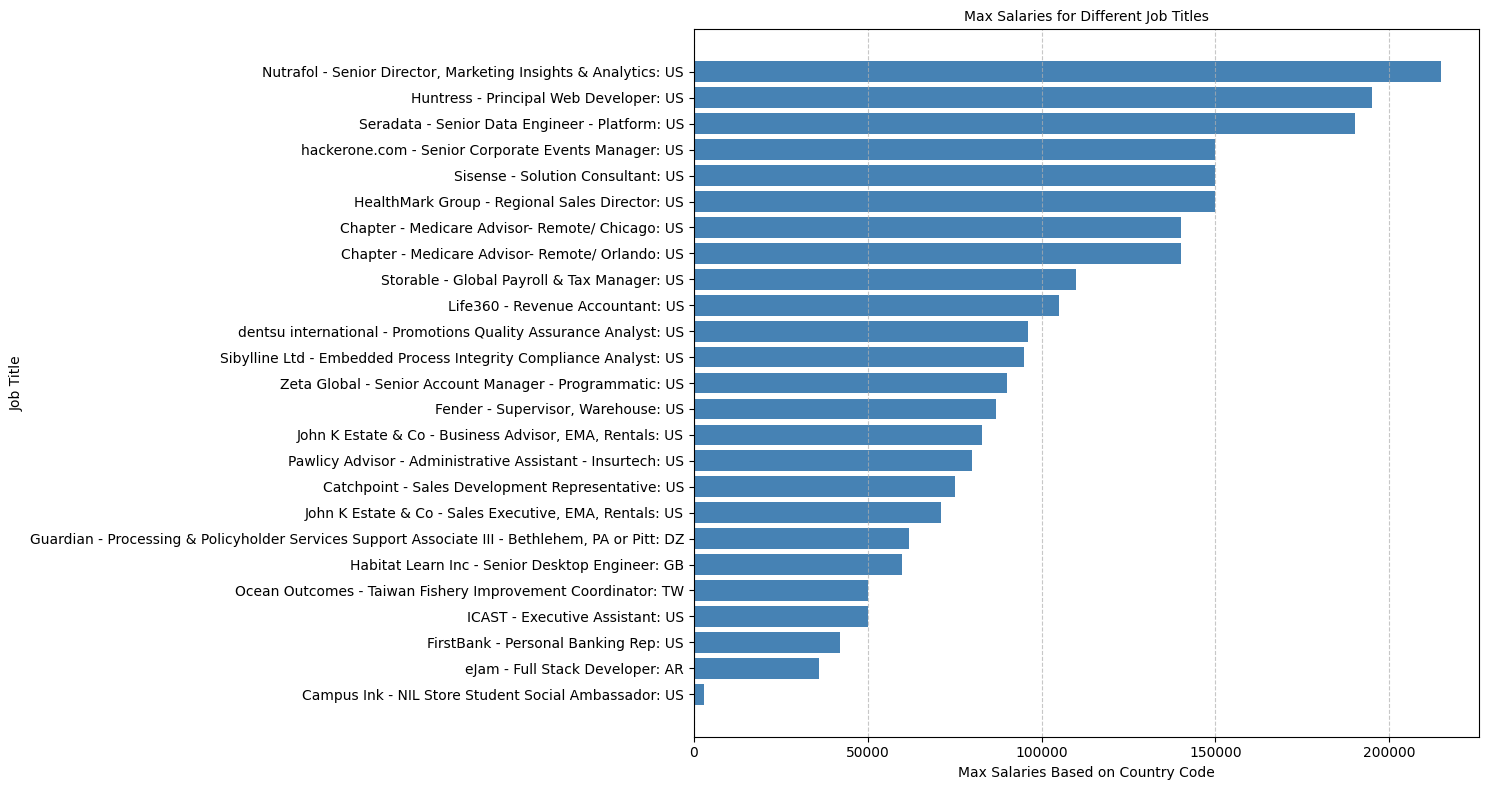
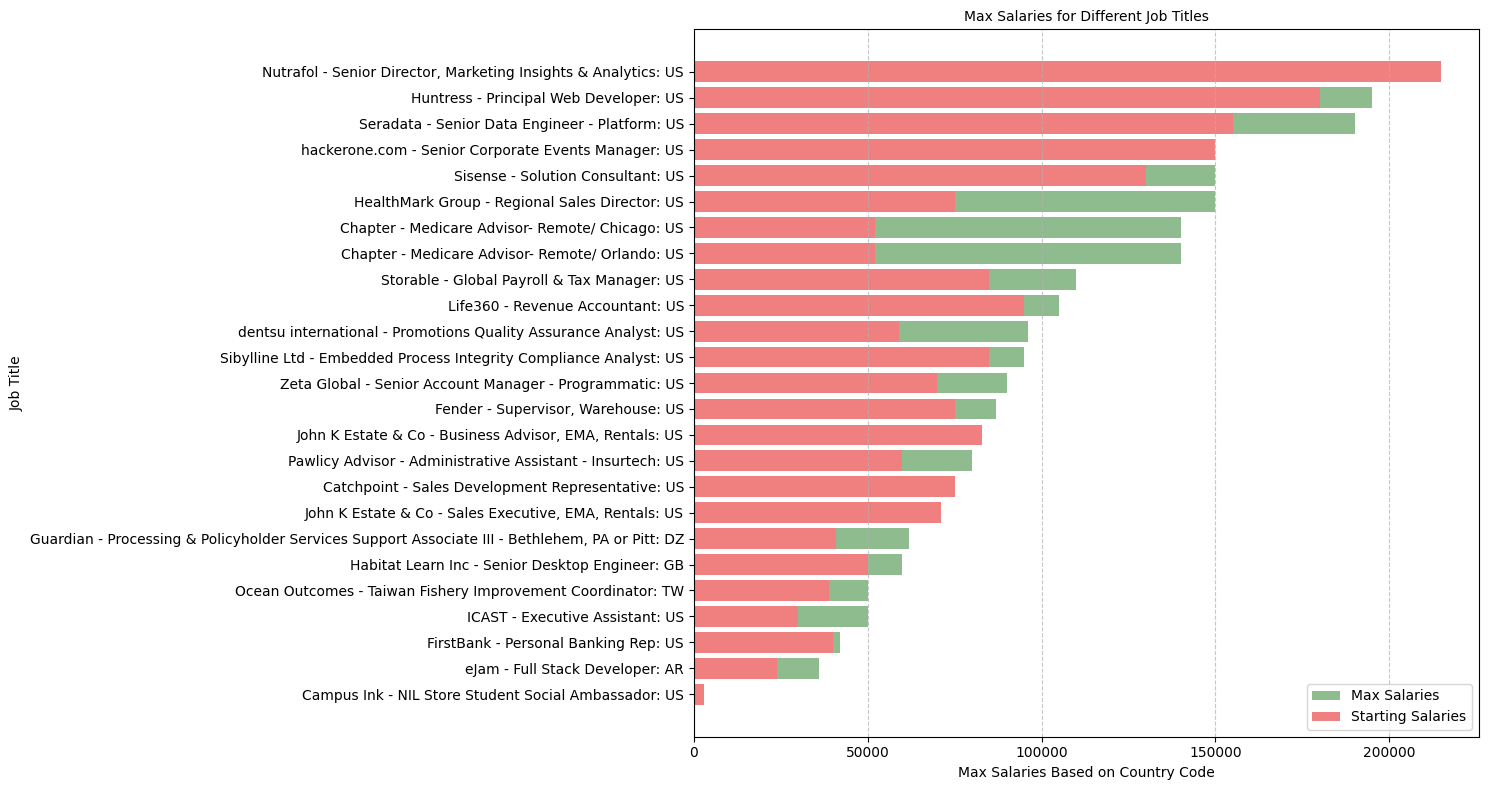
Add final edits to matplotlib and add flask

Changed region(s): [[0.4637, 0.0608, 0.9892, 0.881], [0.8656, 0.8506, 0.9892, 0.9114]]

diff --git a/data_analysis/matplotlib_visuals/plots.py b/data_analysis/matplotlib_visuals/plots.py
@@ -10,6 +10,15 @@ def line_plot(df):
     plt.plot(
         df["company_names"] + " - " + df["job_titles"] + ": " + df["locations"],
         df["max_salaries"],
+        label="Max Salaries",
+        color=random.choice(colors),
+        marker="o",
+        linestyle="-",
+    )
+    plt.plot(
+        df["company_names"] + " - " + df["job_titles"] + ": " + df["locations"],
+        df["starting_salaries"],
+        label="Starting Salaries",
         color=random.choice(colors),
         marker="o",
         linestyle="-",
@@ -20,6 +29,7 @@ def line_plot(df):
     plt.title("Max Salaries for Different Job Titles", fontsize=10)
     plt.grid(axis="y", linestyle="--", alpha=0.7)
     plt.tight_layout()
+    plt.legend()
     plt.savefig(
         "data_analysis/matplotlib_visuals/images/line_plot.png", bbox_inches="tight"
     )
@@ -33,6 +43,14 @@ def bar_plot(df):
     plt.bar(
         df["company_names"] + " - " + df["job_titles"] + ": " + df["locations"],
         df["max_salaries"],
+        label="Max Salaries",
+        color=random.choice(colors),
+        linestyle="-",
+    )
+    plt.bar(
+        df["company_names"] + " - " + df["job_titles"] + ": " + df["locations"],
+        df["starting_salaries"],
+        label="Starting Salaries",
         color=random.choice(colors),
         linestyle="-",
     )
@@ -42,6 +60,7 @@ def bar_plot(df):
     plt.title("Max Salaries for Different Job Titles", fontsize=10)
     plt.grid(axis="x", linestyle="--", alpha=0.7)
     plt.tight_layout()
+    plt.legend()
     plt.savefig(
         "data_analysis/matplotlib_visuals/images/bar_plot.png", bbox_inches="tight"
     )
@@ -58,6 +77,13 @@ def barh_plot(df):
     plt.barh(
         df["company_names"] + " - " + df["job_titles"] + ": " + df["locations"],
         df["max_salaries"],
+        label="Max Salaries",
+        color=random.choice(colors),
+    )
+    plt.barh(
+        df["company_names"] + " - " + df["job_titles"] + ": " + df["locations"],
+        df["starting_salaries"],
+        label="Starting Salaries",
         color=random.choice(colors),
     )
     plt.xlabel("Max Salaries Based on Country Code", fontsize=10)
@@ -66,6 +92,7 @@ def barh_plot(df):
     plt.gca().invert_yaxis()  # Invert y-axis to have the highest salary at the top
     plt.grid(axis="x", linestyle="--", alpha=0.7)
     plt.tight_layout()
+    plt.legend()
     plt.savefig(
         "data_analysis/matplotlib_visuals/images/barh_plot.png", bbox_inches="tight"
     )

diff --git a/api/api.py b/api/api.py
@@ -1,0 +1,9 @@
+from flask import Flask, request, jsonify
+import psycopg2
+
+app = Flask(__name__)
+
+
+@app.route("/save_data", methods=["POST"])
+def save_data():
+    return ...

diff --git a/data_analysis/pandas_data/data_to_csv.py b/data_analysis/pandas_data/data_to_csv.py
@@ -29,4 +29,4 @@ data = {
 }
 
 df = pd.DataFrame(data)
-# print(df)
+print(df)
